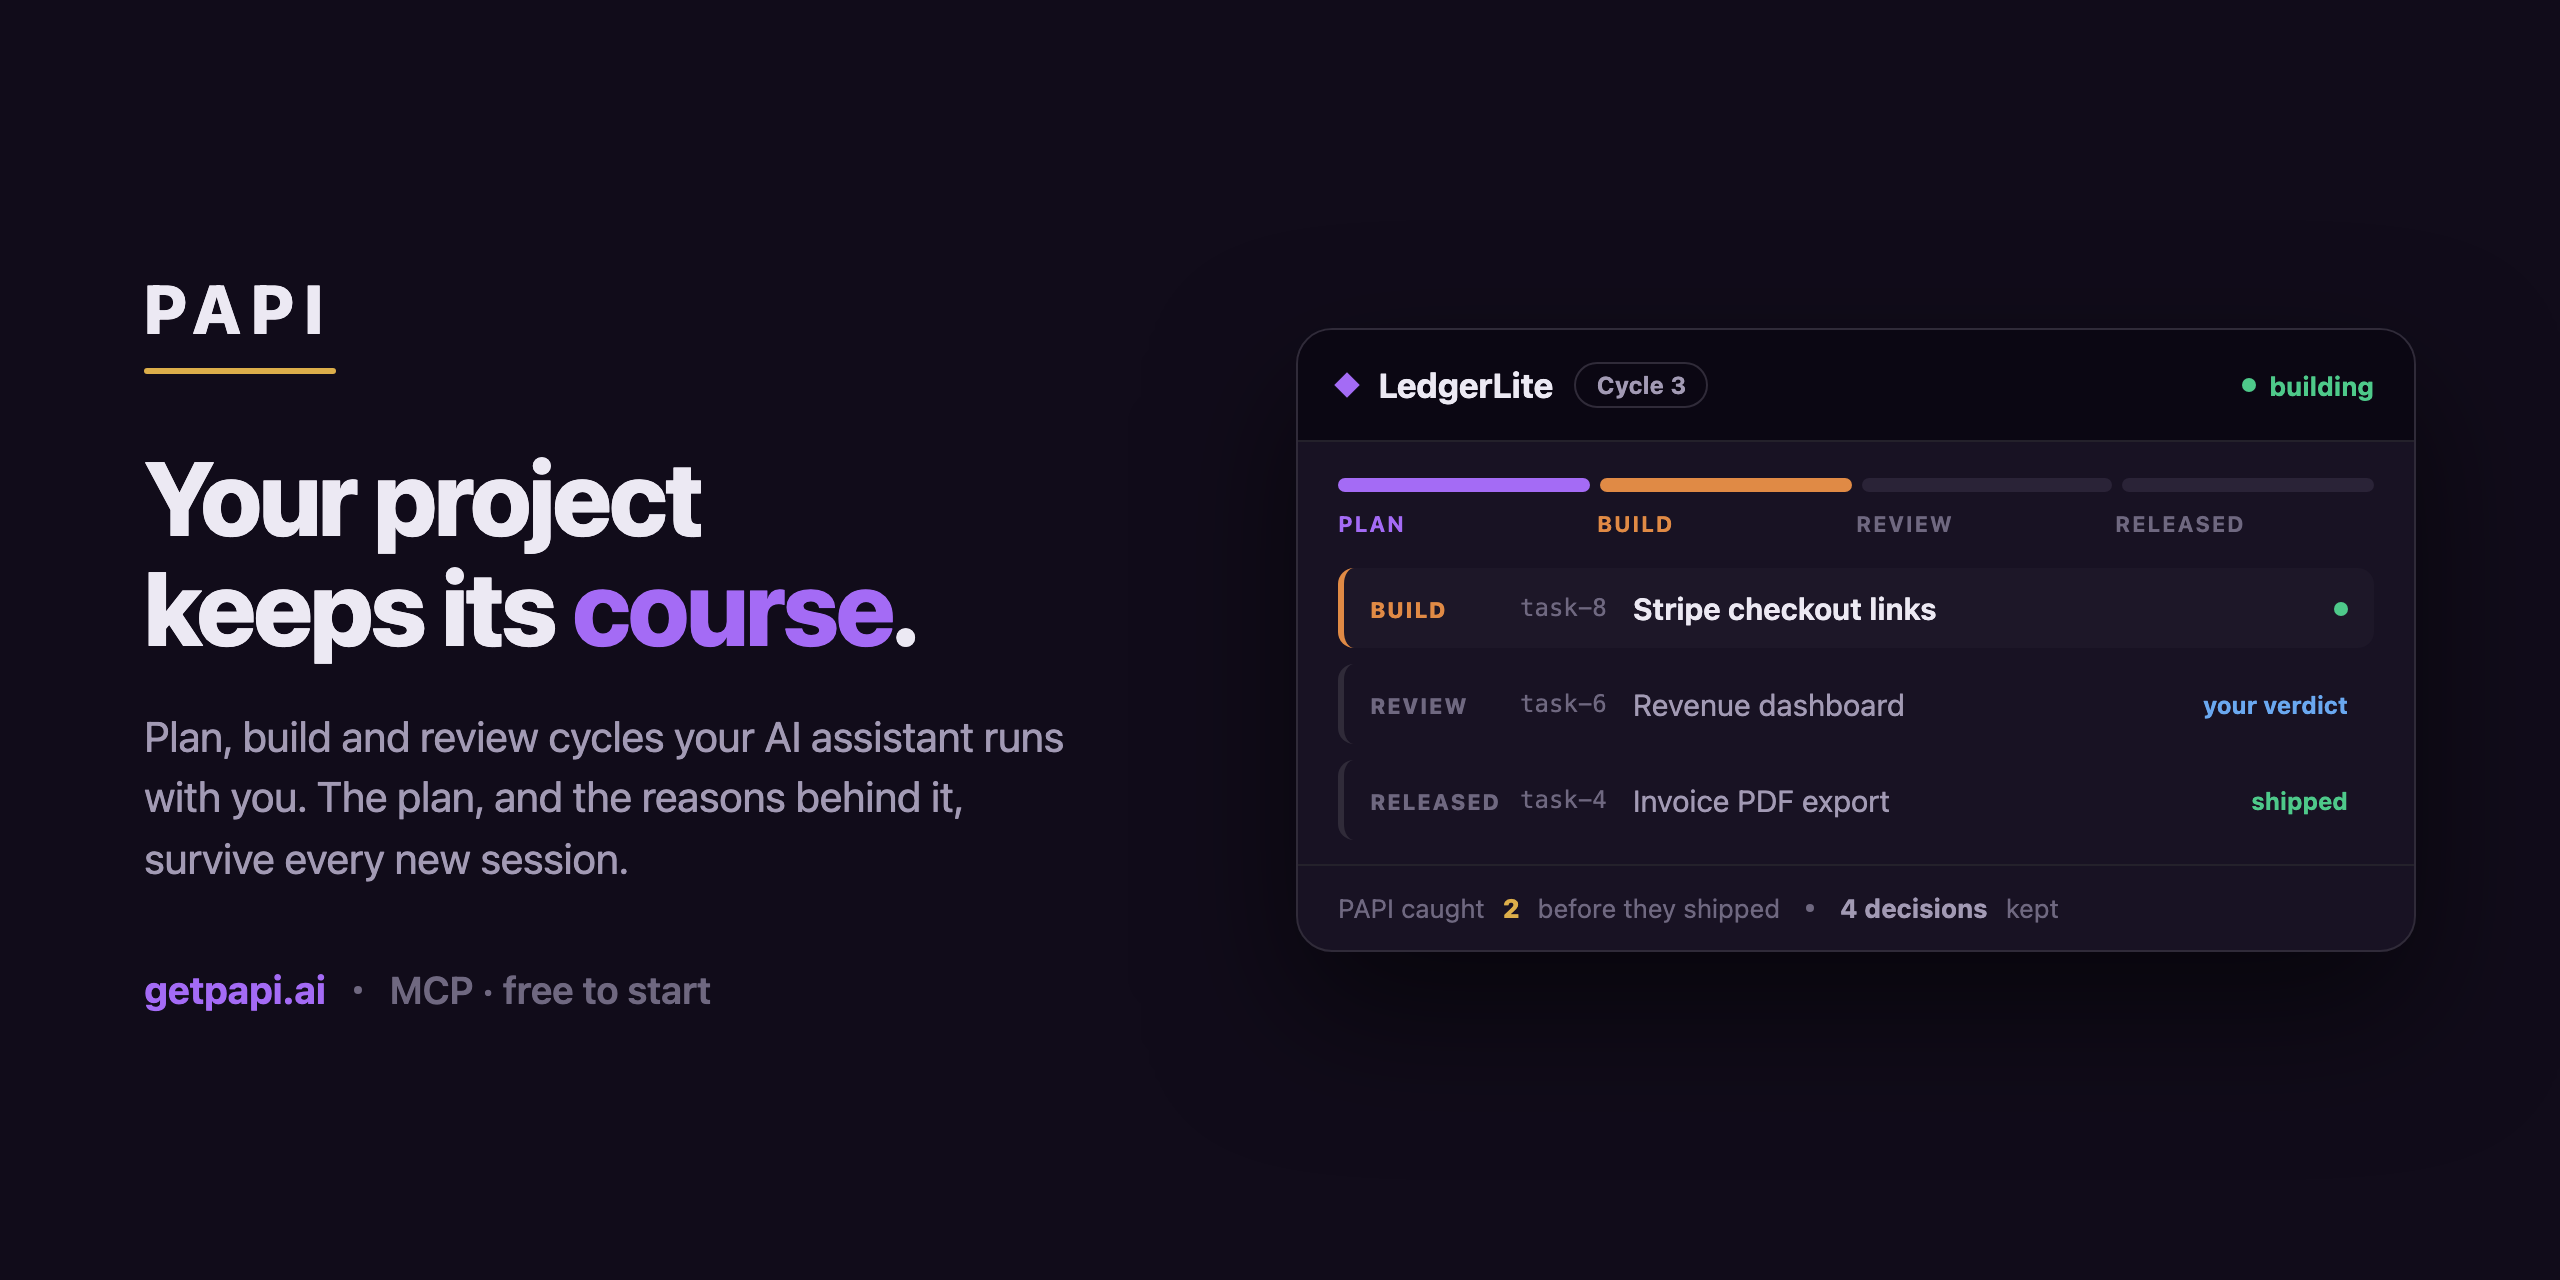
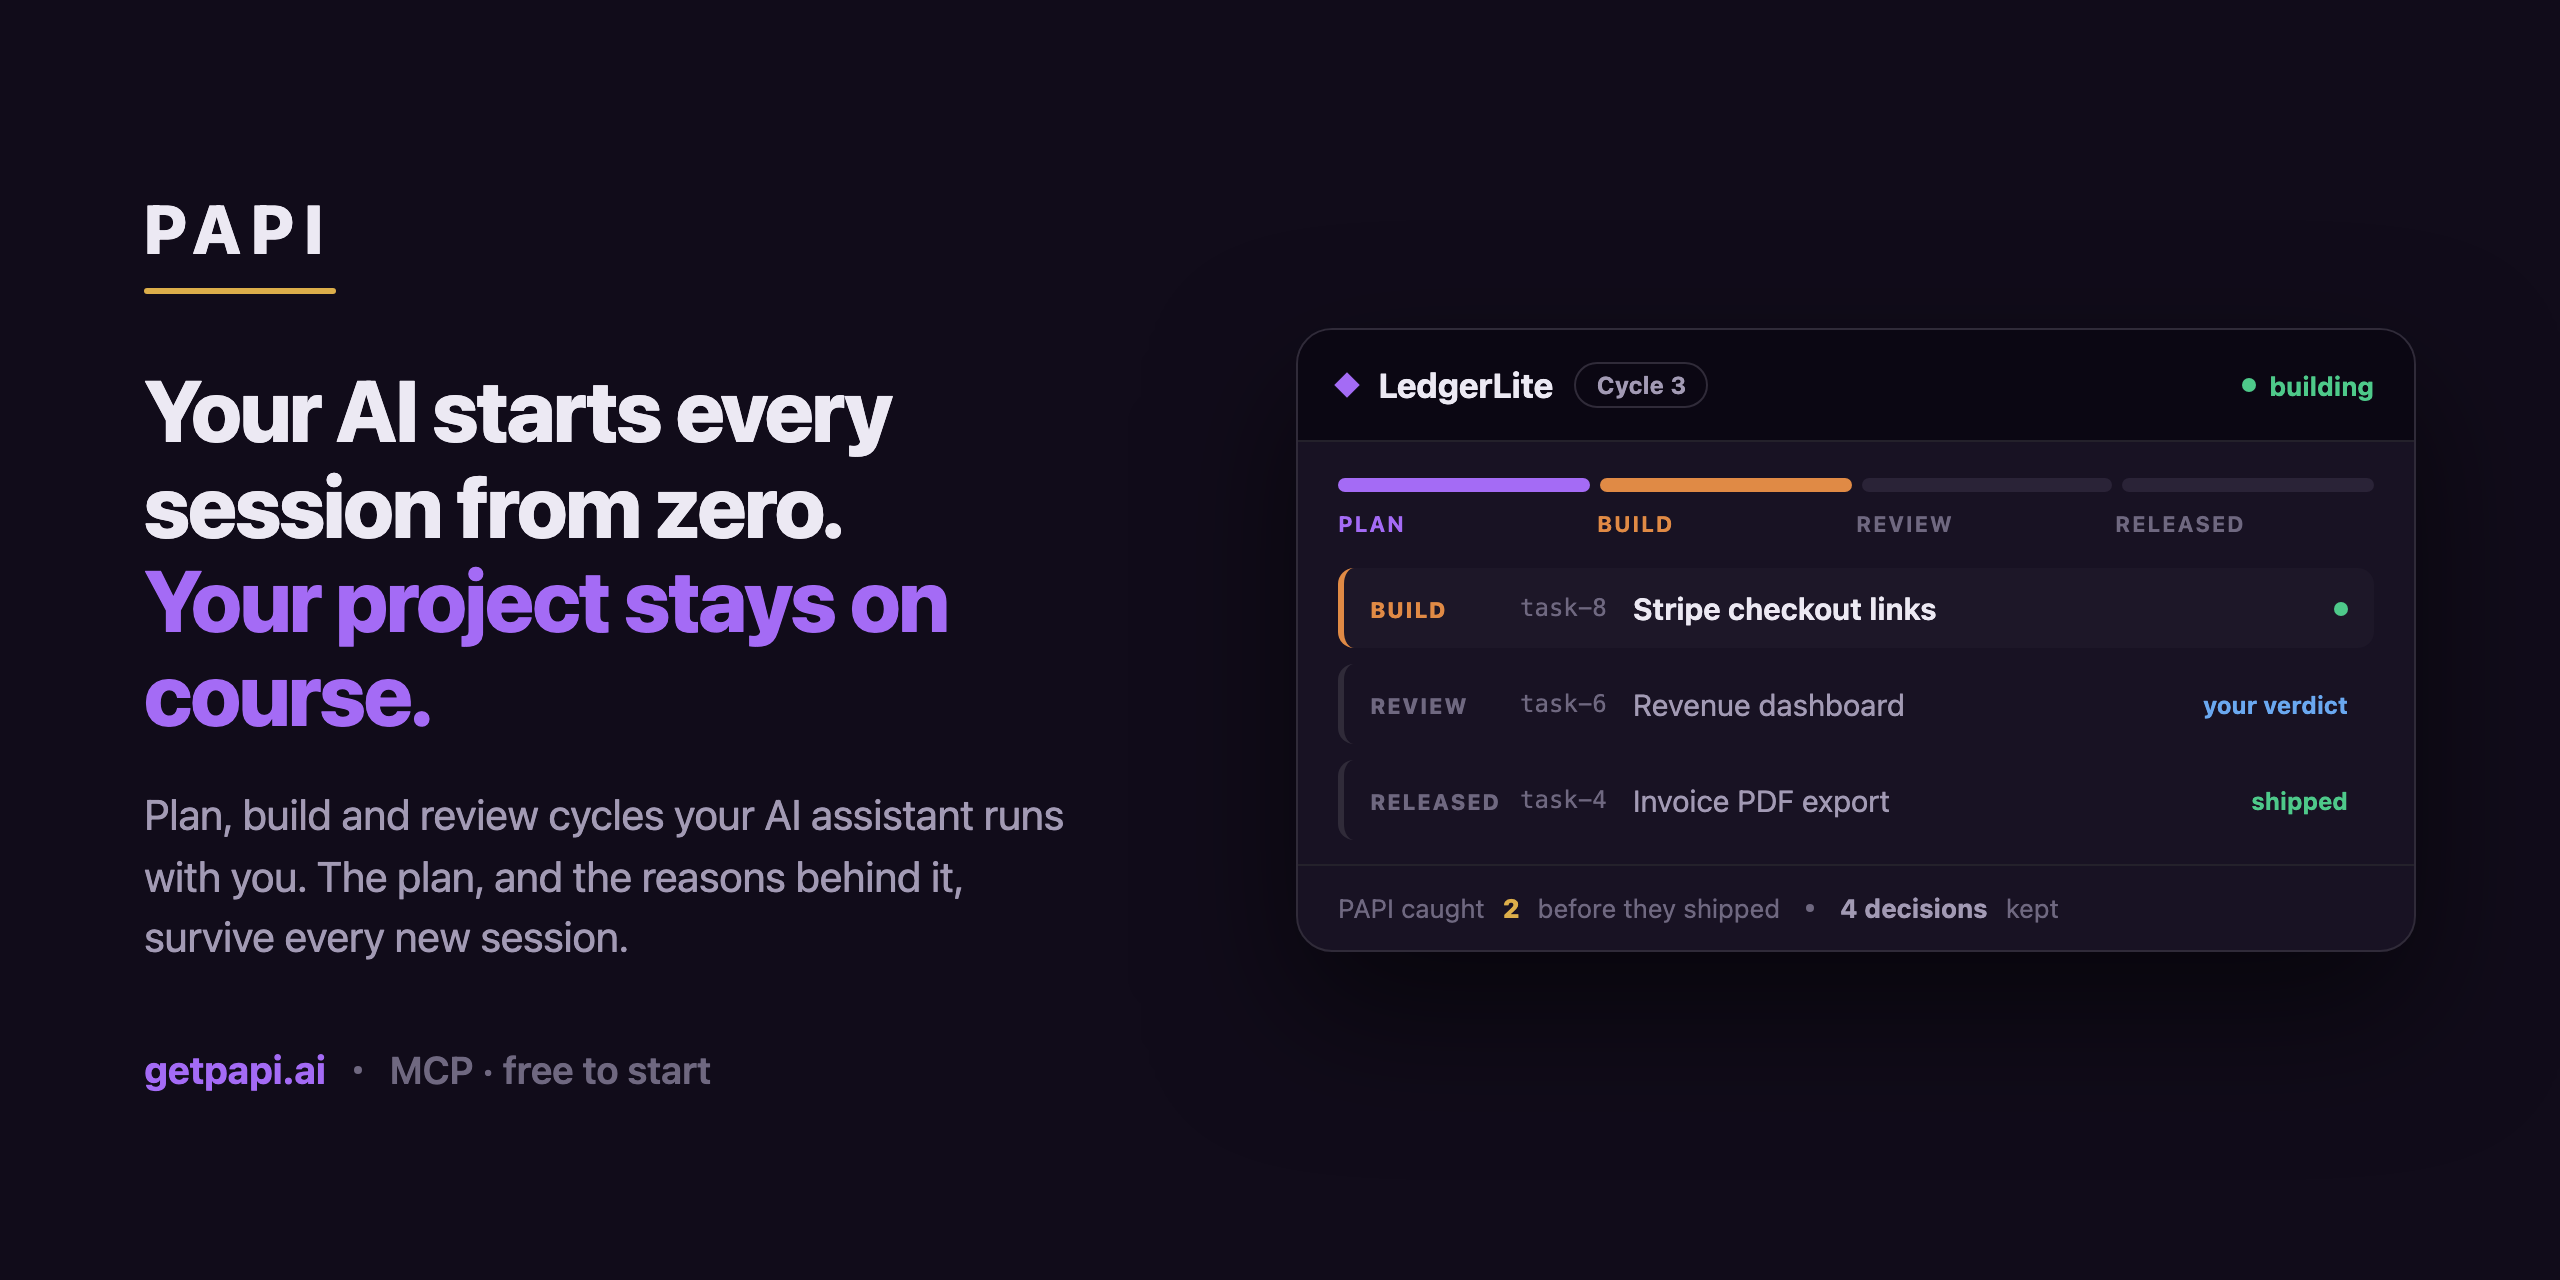
docs(task-2934): rebuild the social preview on the locked tagline
The card was drafted before the C353 tagline landed and carried a
near-miss line. It now carries the locked string verbatim.

Adds assets/social-preview.html, the source the PNG is rendered from, so
the card can be regenerated instead of redrawn.

Changed region(s): [[0.0312, 0.1562, 0.4062, 0.875], [0.1562, 0.8125, 0.2812, 0.8438]]

diff --git a/assets/social-preview.html b/assets/social-preview.html
@@ -1,0 +1,193 @@
+<!doctype html>
+<html>
+<head>
+<meta charset="utf-8">
+<style>
+  /* AD-46 v3 dark canon — DESIGN.md §2 ladder. Solid plum, no gradient, no glow. */
+  :root {
+    --bg: #110c1a;          /* content ground   L 0.17 */
+    --chrome: #0b0713;      /* chrome plane     L 0.14 */
+    --card: #181223;        /* card             L 0.20 */
+    --well: #1d1728;        /* surface-1        L 0.22 */
+    --ink: #ece9f3;
+    --ink-dim: #a29ab4;
+    --ink-faint: #6f6880;
+    --border: #302b39;
+    --border-subtle: #24212b;
+    --plum: #a46bf5;
+    --gold: #dcae4a;
+    --green: #4ec98a;
+    --orange: #e08a45;
+    --sky: #6aa8f0;
+  }
+  * { margin: 0; padding: 0; box-sizing: border-box; }
+  html, body { width: 1280px; height: 640px; }
+  body {
+    background: var(--bg);
+    color: var(--ink);
+    font-family: ui-sans-serif, system-ui, -apple-system, "Segoe UI", sans-serif;
+    display: flex;
+    align-items: center;
+    gap: 56px;
+    padding: 0 72px;
+    /* GitHub crops the card's edges in some surfaces; everything that matters
+       sits inside this padding. */
+  }
+
+  .left { width: 520px; flex-shrink: 0; }
+
+  .wordmark {
+    font-size: 34px; font-weight: 800; letter-spacing: 0.14em;
+    color: var(--ink);
+  }
+  .rule { width: 96px; height: 3px; background: var(--gold); border-radius: 2px; margin-top: 10px; }
+
+  h1 {
+    margin-top: 34px;
+    font-size: 43px; line-height: 1.1; font-weight: 800; letter-spacing: -0.028em;
+  }
+  h1 .said { color: var(--plum); }
+
+  .lead {
+    margin-top: 22px;
+    font-size: 21px; line-height: 1.45; color: var(--ink-dim); max-width: 470px;
+  }
+
+  .foot {
+    margin-top: 40px; display: flex; align-items: center; gap: 14px;
+    font-size: 19px; font-weight: 700; color: var(--plum);
+  }
+  .foot .sep { width: 4px; height: 4px; border-radius: 50%; background: var(--ink-faint); }
+  .foot .quiet { color: var(--ink-faint); font-weight: 600; }
+
+  /* ── the artifact: a reduced cycle board ─────────────────────────────── */
+  .board {
+    flex: 1;
+    background: var(--card);
+    border: 1px solid var(--border);
+    border-radius: 18px;
+    box-shadow: 0 30px 70px rgba(0,0,0,0.55);
+    overflow: hidden;
+  }
+  .board-head {
+    display: flex; align-items: center; justify-content: space-between;
+    padding: 16px 20px;
+    background: var(--chrome);
+    border-bottom: 1px solid var(--border-subtle);
+  }
+  .proj { display: flex; align-items: center; gap: 11px; font-size: 17px; font-weight: 700; }
+  .diamond { width: 9px; height: 9px; background: var(--plum); transform: rotate(45deg); }
+  .cyclechip {
+    font-size: 12px; font-weight: 700; color: var(--ink-dim);
+    border: 1px solid var(--border); border-radius: 999px; padding: 3px 10px;
+  }
+  .live { display: flex; align-items: center; gap: 7px; font-size: 13px; font-weight: 700; color: var(--green); }
+  .dot { width: 7px; height: 7px; border-radius: 50%; background: var(--green); }
+
+  .spine { display: flex; gap: 5px; padding: 18px 20px 9px; }
+  .seg { flex: 1; height: 7px; border-radius: 999px; background: #2a2337; }
+  .seg.done { background: var(--plum); }
+  .seg.now { background: var(--orange); }
+  .ticks { display: flex; padding: 0 20px 16px; font-size: 11px; letter-spacing: 0.07em; text-transform: uppercase; font-weight: 700; }
+  .ticks span { flex: 1; color: var(--ink-faint); }
+  .ticks span.on { color: var(--orange); }
+  .ticks span.was { color: var(--plum); }
+
+  .lanes { padding: 0 20px 4px; }
+  .lane {
+    display: flex; align-items: center; gap: 13px;
+    padding: 11px 13px; margin-bottom: 8px;
+    border-left: 3px solid var(--border);
+    border-radius: 8px;
+  }
+  .lane.now { background: var(--well); border-left-color: var(--orange); }
+  .lane .stage { width: 62px; font-size: 11px; font-weight: 800; letter-spacing: 0.06em; text-transform: uppercase; color: var(--ink-faint); }
+  .lane.now .stage { color: var(--orange); }
+  .lane .id { font-family: ui-monospace, SFMono-Regular, Menlo, monospace; font-size: 12px; color: var(--ink-faint); }
+  .lane .task { font-size: 15px; color: var(--ink-dim); }
+  .lane.now .task { color: var(--ink); font-weight: 650; }
+  .lane .right { margin-left: auto; display: flex; align-items: center; gap: 7px; font-size: 12px; font-weight: 700; }
+  .verdict { color: var(--sky); }
+  .shipped { color: var(--green); }
+
+  .board-foot {
+    display: flex; align-items: center; gap: 9px;
+    padding: 13px 20px; border-top: 1px solid var(--border-subtle);
+    font-size: 13px; color: var(--ink-faint);
+  }
+  .board-foot b { color: var(--gold); font-weight: 800; }
+  .board-foot .kept { color: var(--ink-dim); font-weight: 700; }
+</style>
+</head>
+<body>
+  <div class="left">
+    <div class="wordmark">PAPI</div>
+    <div class="rule"></div>
+
+    <h1>Your AI starts every session from zero.<br>
+      <span class="said">Your project stays on course.</span></h1>
+
+    <p class="lead">
+      Plan, build and review cycles your AI assistant runs with you. The plan,
+      and the reasons behind it, survive every new session.
+    </p>
+
+    <div class="foot">
+      <span>getpapi.ai</span>
+      <span class="sep"></span>
+      <span class="quiet">MCP · free to start</span>
+    </div>
+  </div>
+
+  <div class="board">
+    <div class="board-head">
+      <div class="proj">
+        <span class="diamond"></span>
+        <span>LedgerLite</span>
+        <span class="cyclechip">Cycle 3</span>
+      </div>
+      <div class="live"><span class="dot"></span>building</div>
+    </div>
+
+    <div class="spine">
+      <div class="seg done"></div>
+      <div class="seg now"></div>
+      <div class="seg"></div>
+      <div class="seg"></div>
+    </div>
+    <div class="ticks">
+      <span class="was">Plan</span>
+      <span class="on">Build</span>
+      <span>Review</span>
+      <span>Released</span>
+    </div>
+
+    <div class="lanes">
+      <div class="lane now">
+        <span class="stage">Build</span>
+        <span class="id">task-8</span>
+        <span class="task">Stripe checkout links</span>
+        <span class="right"><span class="dot"></span></span>
+      </div>
+      <div class="lane">
+        <span class="stage">Review</span>
+        <span class="id">task-6</span>
+        <span class="task">Revenue dashboard</span>
+        <span class="right verdict">your verdict</span>
+      </div>
+      <div class="lane">
+        <span class="stage">Released</span>
+        <span class="id">task-4</span>
+        <span class="task">Invoice PDF export</span>
+        <span class="right shipped">shipped</span>
+      </div>
+    </div>
+
+    <div class="board-foot">
+      <span>PAPI caught</span><b>2</b><span>before they shipped</span>
+      <span class="sep" style="width:4px;height:4px;border-radius:50%;background:var(--ink-faint);margin:0 4px"></span>
+      <span class="kept">4 decisions</span><span>kept</span>
+    </div>
+  </div>
+</body>
+</html>
